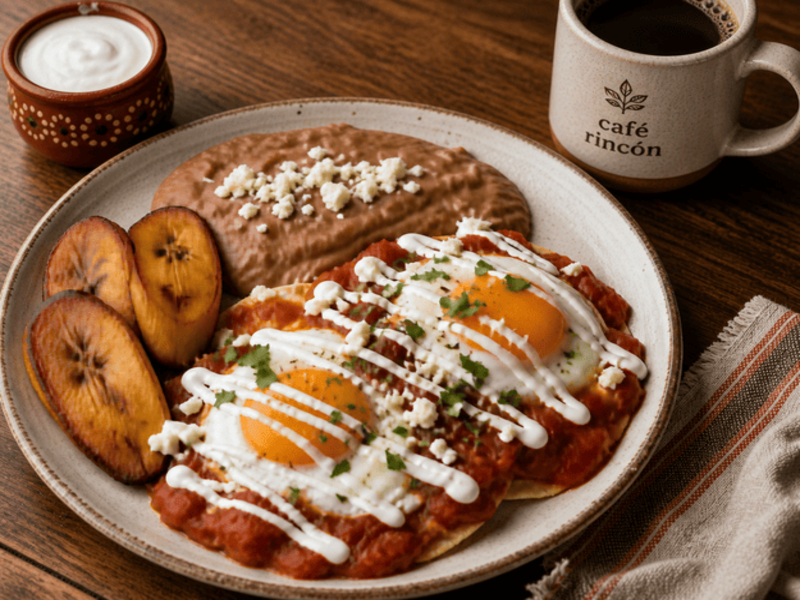
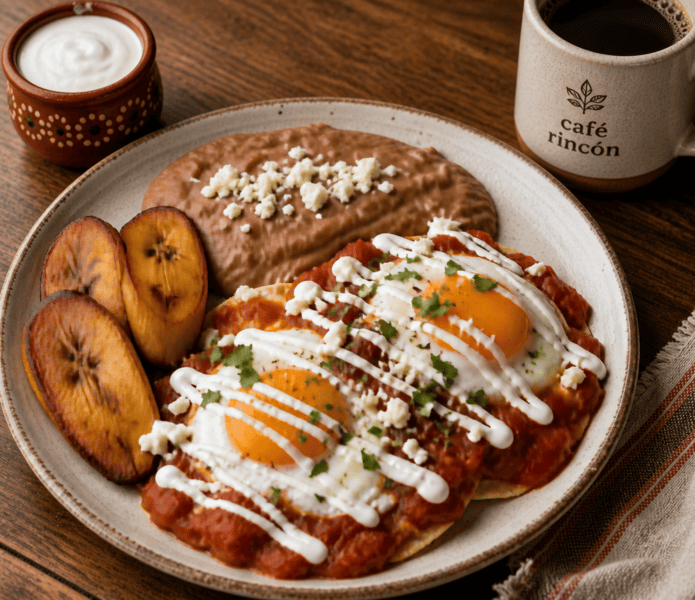
Fix de mi parte + nosotros
Fix de mi parte + nosotros

diff --git a/Proyecto LME/Cafe_Rincon/vista/nosotros.html b/Proyecto LME/Cafe_Rincon/vista/nosotros.html
@@ -39,7 +39,7 @@
                         siendo el mismo: cocinar bien y recibir bien a quien llega.</p>
                 </div>
                 <div class="col-md-5">
-                    <div class="img-placeholder"></div>
+                    <div class="img-placeholder" data-img="../img/nuestra-historia.png" data-toggle="modal" data-target="#lightboxModal"></div>
                     <div class="row text-center estadisticas">
                         <div class="col-md-3 col-sm-6 stat-item">
                             <h2 class="estadistica-numero">20+</h2>
@@ -57,6 +57,39 @@
                             <h2 class="estadistica-numero">4.9</h2>
                             <p class="estadistica-label">CALIFICACIÓN</p>
                         </div>
+                    </div>
+                </div>
+            </div>
+        </div>
+    </section>
+
+    <!-- HISTORIA: PRIMEROS AÑOS -->
+    <section class="seccion-alt">
+        <div class="container">
+            <div class="titulo-s">
+                <h2>Los primeros años</h2>
+                <div class="raya"></div>
+            </div>
+            <div class="row">
+                <div class="col-md-4 col-sm-6">
+                    <div class="card-instalacion">
+                        <h4>Primera sucursal</h4>
+                        <div class="card-instalacion-banner slot-historia-1" data-img="../img/historia/primera-sucursal.png" data-toggle="modal" data-target="#lightboxModal"></div>
+                        <p>El local donde nació el sueño de Ana y Pedro en el año 2005.</p>
+                    </div>
+                </div>
+                <div class="col-md-4 col-sm-6">
+                    <div class="card-instalacion">
+                        <h4>Los fundadores</h4>
+                        <div class="card-instalacion-banner slot-historia-2" data-img="../img/historia/fundadores.png" data-toggle="modal" data-target="#lightboxModal"></div>
+                        <p>Ana y Pedro Molina en los primeros meses del café.</p>
+                    </div>
+                </div>
+                <div class="col-md-4 col-sm-6">
+                    <div class="card-instalacion">
+                        <h4>La cocina original</h4>
+                        <div class="card-instalacion-banner slot-historia-3" data-img="../img/historia/primera-cocina.png" data-toggle="modal" data-target="#lightboxModal"></div>
+                        <p>Donde todo empezó, con recetas de familia y amor.</p>
                     </div>
                 </div>
             </div>
@@ -83,6 +116,39 @@
                         <h3 class="titulo-mvv dorado"><i class='bx bx-bulb'></i> Visión</h3>
                         <p>Ser el restaurante de referencia en El Salvador para quienes buscan comida honesta, ambiente
                             tranquilo y un servicio que los haga sentir en familia.</p>
+                    </div>
+                </div>
+            </div>
+        </div>
+    </section>
+
+    <!-- INSTALACIONES HOY -->
+    <section class="seccion">
+        <div class="container">
+            <div class="titulo-s">
+                <h2>Nuestras instalaciones hoy</h2>
+                <div class="raya"></div>
+            </div>
+            <div class="row">
+                <div class="col-md-4 col-sm-6">
+                    <div class="card-instalacion">
+                        <div class="card-instalacion-banner salon-hoy" data-img="../img/instalaciones/salon-principal.png" data-toggle="modal" data-target="#lightboxModal"></div>
+                        <h4>Salón Principal</h4>
+                        <p>Espacio amplio y acogedor con capacidad para 40 personas, ideal para reuniones familiares.</p>
+                    </div>
+                </div>
+                <div class="col-md-4 col-sm-6">
+                    <div class="card-instalacion">
+                        <div class="card-instalacion-banner terraza-hoy" data-img="../img/instalaciones/terraza.png" data-toggle="modal" data-target="#lightboxModal"></div>
+                        <h4>Terraza al Aire Libre</h4>
+                        <p>Disfruta de tu comida bajo el cielo de San Salvador, con ambiente relajado y vegetación natural.</p>
+                    </div>
+                </div>
+                <div class="col-md-4 col-sm-6">
+                    <div class="card-instalacion">
+                        <div class="card-instalacion-banner cocina-hoy" data-img="../img/instalaciones/cocina.png" data-toggle="modal" data-target="#lightboxModal"></div>
+                        <h4>Cocina Abierta</h4>
+                        <p>Nuestra cocina moderna donde preparamos cada platillo con los mismos estándares de siempre.</p>
                     </div>
                 </div>
             </div>
@@ -119,6 +185,32 @@
         </div>
     </section>
 
+    <!-- PRIMERA SUCURSAL -->
+    <section class="seccion-alt">
+        <div class="container">
+            <div class="titulo-s">
+                <h2>La primera sucursal</h2>
+                <div class="raya"></div>
+            </div>
+            <div class="card-promo">
+                <div class="row">
+                    <div class="col-sm-6">
+                        <div class="img-historia-destacada" data-img="../img/historia/sucursal-centro.png" data-toggle="modal" data-target="#lightboxModal"></div>
+                    </div>
+                    <div class="col-sm-6">
+                        <div class="info-promo">
+                            <span class="etiqueta-promo">Desde el año 2000</span>
+                            <h3>Centro de San Salvador</h3>
+                            <p>En pleno corazón de la ciudad, abrimos las puertas de nuestra primera sucursal con apenas seis mesas y un sueño: llevar el sabor de casa a cada mesa. Este local histórico sigue operando y conserva la misma esencia de siempre.</p>
+                            <p>Es aquí donde nacieron nuestras recetas emblemáticas y donde muchos clientes nos acompañan desde el primer día.</p>
+                            <a href="contacto.html" class="btn-rincon">Visítanos</a>
+                        </div>
+                    </div>
+                </div>
+            </div>
+        </div>
+    </section>
+
     <!-- PIE -->
     <div id="fot"></div>
     <script>
@@ -140,8 +232,29 @@
                 });
         });
     </script>
+    <!-- LIGHTBOX MODAL -->
+    <div class="modal fade" id="lightboxModal" tabindex="-1" role="dialog" aria-hidden="true">
+        <div class="modal-dialog modal-lg" role="document">
+            <div class="modal-content modal-lightbox">
+                <div class="modal-body text-center" style="padding: 0;">
+                    <img id="lightbox-img" src="" alt="Vista ampliada" style="max-width: 100%; max-height: 85vh; display: block; margin: 0 auto;">
+                    <button type="button" class="close" data-dismiss="modal" aria-label="Cerrar" style="position: absolute; top: 10px; right: 20px; color: #fff; font-size: 30px; opacity: 0.8;">&times;</button>
+                </div>
+            </div>
+        </div>
+    </div>
+
     <script src="https://code.jquery.com/jquery-1.12.4.min.js"></script>
     <script src="https://maxcdn.bootstrapcdn.com/bootstrap/3.3.7/js/bootstrap.min.js"></script>
+    <script>
+        $(document).ready(function() {
+            $('#lightboxModal').on('show.bs.modal', function(event) {
+                var trigger = $(event.relatedTarget);
+                var imgSrc = trigger.data('img');
+                $('#lightbox-img').attr('src', imgSrc);
+            });
+        });
+    </script>
 </body>
 
 </html>

diff --git a/Proyecto LME/Cafe_Rincon/css/style.css b/Proyecto LME/Cafe_Rincon/css/style.css
@@ -557,6 +557,7 @@ a:hover { color: #B8943A; text-decoration: none; }
     font-size: 54px;
     color: #fff;
     margin-bottom: 16px;
+    background-color: #E6EBE4;
 }
 
 .card-instalacion-banner.verde {
@@ -1127,19 +1128,16 @@ a:hover { color: #B8943A; text-decoration: none; }
     color: #B8943A !important;
     background-image: none !important;
     filter: none !important;
+    /* Centrado con Flexbox */
+    display: flex !important;
+    align-items: center !important;
+    justify-content: center !important;
 }
 
-#carousel-promos .carousel-control.left .glyphicon,
-#carousel-promos .carousel-control.right .glyphicon {
-    position: absolute;
-    top: 50%;
-    left: 50%;
-    transform: translate(-50%, -50%);
-    margin: 0;
-    padding: 0;
-    font-size: 18px;
-    text-align: center;
-    vertical-align: middle;
+#carousel-promos .carousel-control.left .bx,
+#carousel-promos .carousel-control.right .bx {
+    font-size: 24px;
+    line-height: 1;
 }
 
 #carousel-promos .carousel-control.left:hover,
@@ -1158,6 +1156,77 @@ a:hover { color: #B8943A; text-decoration: none; }
     #carousel-promos .carousel-control.left  { left: 5px; }
     #carousel-promos .carousel-control.right { right: 5px; }
     .precio-original, .precio-promo { display: block; margin: 5px 0; }
+}
+
+/* Imagenes de historia - primeros años */
+.g-item .slot,
+.card-instalacion-banner {
+    background-color: #E6EBE4;
+}
+
+.g-item .slot.slot-historia-1,
+.card-instalacion-banner.slot-historia-1 {
+    background-image: url('../img/historia/primera-sucursal.png');
+    background-size: cover;
+    background-position: center;
+}
+
+.g-item .slot.slot-historia-2,
+.card-instalacion-banner.slot-historia-2 {
+    background-image: url('../img/historia/fundadores.png');
+    background-size: cover;
+    background-position: center;
+}
+
+.g-item .slot.slot-historia-3,
+.card-instalacion-banner.slot-historia-3 {
+    background-image: url('../img/historia/primera-cocina.png');
+    background-size: cover;
+    background-position: center;
+}
+
+/* Imagenes de instalaciones actuales */
+.card-instalacion-banner.salon-hoy {
+    background-image: url('../img/instalaciones/salon-principal.png');
+    background-size: cover;
+    background-position: center;
+}
+
+.card-instalacion-banner.terraza-hoy {
+    background-image: url('../img/instalaciones/terraza.png');
+    background-size: cover;
+    background-position: center;
+}
+
+.card-instalacion-banner.cocina-hoy {
+    background-image: url('../img/instalaciones/cocina.png');
+    background-size: cover;
+    background-position: center;
+}
+
+/* Primera sucursal destacada */
+.img-historia-destacada {
+    width: 100%;
+    min-height: 350px;
+    background-color: #E6EBE4;
+    background-image: url('../img/historia/sucursal-centro.png');
+    background-size: cover;
+    background-position: center;
+}
+
+/* Lightbox estilos */
+[data-img] {
+    cursor: pointer;
+}
+
+.modal-lightbox {
+    background: transparent;
+    box-shadow: none;
+    border: none;
+}
+
+.modal-lightbox .modal-body {
+    position: relative;
 }
 
 /* Fin de estilos */

diff --git a/Proyecto LME/Cafe_Rincon/vista/index.html b/Proyecto LME/Cafe_Rincon/vista/index.html
@@ -116,11 +116,11 @@
 
                 <!-- Controles -->
                 <a class="left carousel-control" href="#carousel-promos" role="button" data-slide="prev">
-                    <span class="glyphicon glyphicon-chevron-left" aria-hidden="true"></span>
+                    <i class='bx bxs-chevron-left' aria-hidden="true"></i>
                     <span class="sr-only">Anterior</span>
                 </a>
                 <a class="right carousel-control" href="#carousel-promos" role="button" data-slide="next">
-                    <span class="glyphicon glyphicon-chevron-right" aria-hidden="true"></span>
+                    <i class='bx bxs-chevron-right' aria-hidden="true"></i>
                     <span class="sr-only">Siguiente</span>
                 </a>
             </div>
